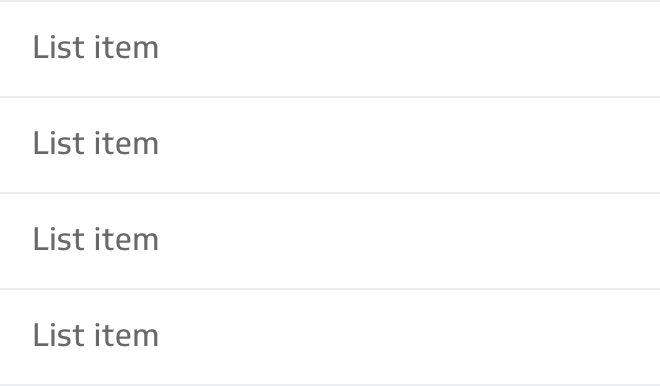
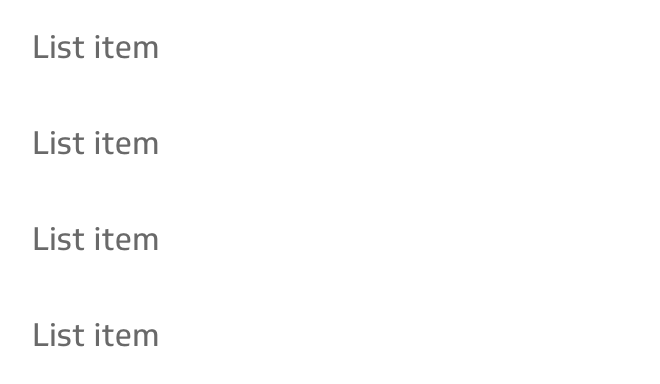
list fix bug update do guideline picture

diff --git a/src/assets/examples/list-overview/list-overview.component.html b/src/assets/examples/list-overview/list-overview.component.html
@@ -1,5 +1,6 @@
 <mat-list role="list">
-  <mat-list-item role="listitem">Item 1</mat-list-item>
-  <mat-list-item role="listitem">Item 2</mat-list-item>
-  <mat-list-item role="listitem">Item 3</mat-list-item>
+  <mat-list-item role="listitem">List item</mat-list-item>
+  <mat-list-item role="listitem">List item</mat-list-item>
+  <mat-list-item role="listitem">List item</mat-list-item>
+  <mat-list-item role="listitem">List item</mat-list-item>
 </mat-list>
